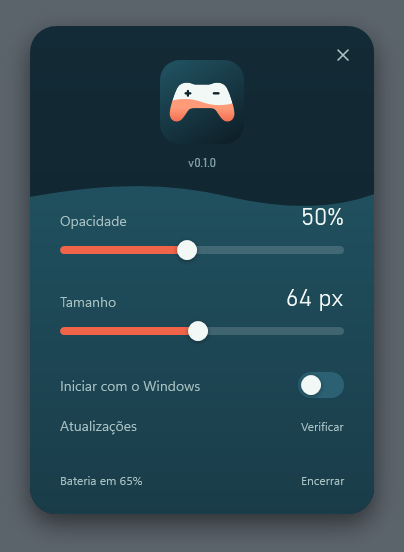
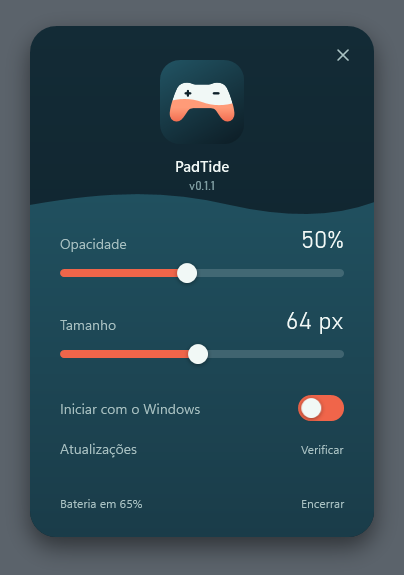
Fix widget double-click and drag, show app name in settings
DragMove's modal loop swallowed the second press, so the widget now drags
by hand. Also keeps the hollow area clickable at any opacity, stops
--snapshot from overwriting preferences and removes downloaded installers.

diff --git a/src/PadTide/Ui/SettingsWindow.xaml b/src/PadTide/Ui/SettingsWindow.xaml
@@ -29,7 +29,8 @@
 
             <StackPanel Grid.Row="0" HorizontalAlignment="Center" Margin="0,8,0,34">
                 <Image x:Name="BrandIcon" Width="84" Height="84" RenderOptions.BitmapScalingMode="HighQuality" AutomationProperties.Name="PadTide" />
-                <TextBlock x:Name="VersionText" Style="{StaticResource Text.Version}" HorizontalAlignment="Center" Margin="0,12,0,0" />
+                <TextBlock Style="{StaticResource Text.Title}" Text="PadTide" HorizontalAlignment="Center" Margin="0,12,0,0" />
+                <TextBlock x:Name="VersionText" Style="{StaticResource Text.Version}" HorizontalAlignment="Center" Margin="0,3,0,0" />
             </StackPanel>
 
             <StackPanel Grid.Row="1" Margin="0,0,0,18">

diff --git a/src/PadTide/Ui/WidgetWindow.cs b/src/PadTide/Ui/WidgetWindow.cs
@@ -15,6 +15,11 @@ namespace PadTide.Ui
         private const double EdgeMargin = 24;
         private readonly BadgeView _badge = new BadgeView();
         private double _opacity = 0.5;
+        private bool _pressed;
+        private bool _dragging;
+        private Point _pressCursor;
+        private double _pressLeft;
+        private double _pressTop;
 
         public WidgetWindow()
         {
@@ -30,6 +35,8 @@ namespace PadTide.Ui
             Content = _badge;
             SourceInitialized += (s, e) => NativeMethods.MakeNonActivatingToolWindow(new WindowInteropHelper(this).Handle);
             MouseLeftButtonDown += OnPress;
+            MouseMove += OnDrag;
+            MouseLeftButtonUp += OnRelease;
         }
 
         public event Action? SettingsRequested;
@@ -46,6 +53,7 @@ namespace PadTide.Ui
             Width = size;
             Height = size * Artwork.BadgeAspect;
             _opacity = opacityPercent / 100d;
+            _badge.WindowOpacity = _opacity;
             BeginAnimation(OpacityProperty, null);
             Opacity = _opacity;
         }
@@ -83,27 +91,52 @@ namespace PadTide.Ui
                 NativeMethods.SwpNoMove | NativeMethods.SwpNoSize | NativeMethods.SwpNoActivate);
         }
 
+        // DragMove's modal loop swallows the second press of a double-click, so the drag is done by hand.
         private void OnPress(object sender, MouseButtonEventArgs e)
         {
             if (e.ClickCount == 2)
             {
+                _pressed = false;
                 SettingsRequested?.Invoke();
                 return;
             }
-            try
-            {
-                DragMove();
-                Moved?.Invoke();
-            }
-            catch (InvalidOperationException)
-            {
-                // The button was already released.
-            }
+            _pressed = true;
+            _dragging = false;
+            _pressCursor = CursorPosition();
+            _pressLeft = Left;
+            _pressTop = Top;
+            CaptureMouse();
+        }
+
+        private void OnDrag(object sender, MouseEventArgs e)
+        {
+            if (!_pressed) return;
+            var offset = CursorPosition() - _pressCursor;
+            if (!_dragging && Math.Abs(offset.X) < SystemParameters.MinimumHorizontalDragDistance && Math.Abs(offset.Y) < SystemParameters.MinimumVerticalDragDistance) return;
+            _dragging = true;
+            Left = _pressLeft + offset.X;
+            Top = _pressTop + offset.Y;
+        }
+
+        private void OnRelease(object sender, MouseButtonEventArgs e)
+        {
+            if (!_pressed) return;
+            _pressed = false;
+            ReleaseMouseCapture();
+            if (_dragging) Moved?.Invoke();
+        }
+
+        private Point CursorPosition()
+        {
+            NativeMethods.GetCursorPos(out var cursor);
+            var fromDevice = PresentationSource.FromVisual(this)?.CompositionTarget?.TransformFromDevice ?? Matrix.Identity;
+            return fromDevice.Transform(new Point(cursor.X, cursor.Y));
         }
 
         private sealed class BadgeView : FrameworkElement
         {
             private int _percent;
+            private double _windowOpacity = 1;
 
             public int Percent
             {
@@ -116,7 +149,17 @@ namespace PadTide.Ui
                 }
             }
 
-            protected override void OnRender(DrawingContext dc) => Artwork.DrawBadge(dc, ActualWidth, _percent);
+            public double WindowOpacity
+            {
+                get => _windowOpacity;
+                set
+                {
+                    _windowOpacity = value;
+                    InvalidateVisual();
+                }
+            }
+
+            protected override void OnRender(DrawingContext dc) => Artwork.DrawBadge(dc, ActualWidth, _percent, _windowOpacity);
         }
     }
 }

diff --git a/src/PadTide/Ui/Artwork.cs b/src/PadTide/Ui/Artwork.cs
@@ -31,14 +31,16 @@ namespace PadTide.Ui
         private static readonly Typeface NumeralCondensed = new Typeface(new FontFamily("Bahnschrift"), FontStyles.Normal, FontWeights.SemiBold, FontStretches.Condensed);
 
         /// <summary>The widget: controller outline only, the percentage in the middle.</summary>
-        public static void DrawBadge(DrawingContext dc, double width, int percent)
+        public static void DrawBadge(DrawingContext dc, double width, int percent, double windowOpacity = 1)
         {
             var scale = width / ViewWidth;
             dc.PushTransform(new ScaleTransform(scale, scale));
             dc.PushTransform(new TranslateTransform(-ViewLeft, -ViewTop));
 
-            // A one-step alpha keeps the hollow middle clickable in a layered window.
-            dc.DrawGeometry(new SolidColorBrush(Color.FromArgb(1, 0, 0, 0)), null, Controller);
+            // Layered windows ignore clicks on pixels with zero alpha. Scaling by the window opacity keeps the
+            // hollow middle clickable at every setting while staying invisible.
+            var hitAlpha = (byte)Math.Min(255, Math.Ceiling(2 / Math.Max(0.01, windowOpacity)));
+            dc.DrawGeometry(new SolidColorBrush(Color.FromArgb(hitAlpha, 0, 0, 0)), null, Controller);
 
             var line = Brush(BatteryReport.IsLowLevel(percent) ? "Color.Signal" : "Color.Foam");
             var ink = Brush("Color.Foam");

diff --git a/src/PadTide/App.xaml.cs b/src/PadTide/App.xaml.cs
@@ -36,6 +36,7 @@ namespace PadTide
         private DispatcherTimer? _saveTimer;
         private bool _openSettingsIfOff;
         private bool _firstState = true;
+        private bool _persistSettings = true;
         private readonly Updater _updater = new Updater();
         private DispatcherTimer? _updateTimer;
         private UpdateNoticeWindow? _updateNotice;
@@ -59,6 +60,7 @@ namespace PadTide
             }
             if (e.Args.Length >= 2 && e.Args[0] == "--snapshot")
             {
+                _persistSettings = false;
                 Snapshot.Write(e.Args[1]);
                 Shutdown();
                 return;
@@ -286,6 +288,7 @@ namespace PadTide
         private void SaveSettings()
         {
             _saveTimer?.Stop();
+            if (!_persistSettings) return;
             try
             {
                 Settings.Save(_settingsPath);

diff --git a/src/PadTide/Shell/Updater.cs b/src/PadTide/Shell/Updater.cs
@@ -32,6 +32,8 @@ namespace PadTide.Shell
         {
             var directory = Path.Combine(Path.GetTempPath(), "PadTide", "updates");
             Directory.CreateDirectory(directory);
+            // The installer of a previous update cannot delete itself; this is the next chance to do it.
+            foreach (var leftover in Directory.GetFiles(directory, UpdateManifest.InstallerAssetPrefix + "*.exe")) TryDelete(leftover);
             var destination = Path.Combine(directory, UpdateManifest.InstallerAssetPrefix + offer.Version + "-" + Guid.NewGuid().ToString("N") + ".exe");
             try
             {

diff --git a/ERRORS.md b/ERRORS.md
@@ -9,6 +9,20 @@ Consultar este arquivo antes de investigar um problema relacionado.
 - **Solução:** tratar a falta de resposta como "sem leitura". Ocultar o widget após 2 falhas seguidas e nunca mostrar um valor antigo como atual.
 - **Prevenção:** o `PID_1098` sozinho não garante leitura. Um percentual só aparece depois de uma resposta válida.
 
+## Duplo clique no widget não abria as configurações (0.1.0)
+
+- **Sintoma:** com cliques reais do mouse, o duplo clique não fazia nada. O arraste funcionava, mas deslocava o widget mais do que o mouse (23 px a mais na vertical em um movimento de 40 px).
+- **Causa:** `DragMove` entra no loop modal do sistema já no primeiro clique e consome o segundo, então `ClickCount` nunca chegava a 2.
+- **Solução:** arraste próprio com `CaptureMouse`, que só começa depois da distância mínima de arraste do sistema.
+- **Prevenção:** testar interações de mouse com cliques reais. Automação de interface e imagens geradas não passam por esse caminho.
+
+## `--snapshot` apagava as preferências do usuário (0.1.1)
+
+- **Sintoma:** tamanho e opacidade escolhidos voltavam a 64 e 50% depois de gerar imagens.
+- **Causa:** o modo `--snapshot` não carrega as preferências, mas os sliders da tela de configurações disparavam o salvamento dos valores padrão.
+- **Solução:** o modo `--snapshot` nunca grava preferências.
+- **Prevenção:** ferramentas de diagnóstico não devem tocar nos dados do usuário.
+
 ## Barras e botões com formato de lente
 
 - **Sintoma:** os trilhos dos sliders saíam com as pontas afinadas, como uma lente.

diff --git a/CHANGELOG.md b/CHANGELOG.md
@@ -2,6 +2,14 @@
 
 Todas as mudanças relevantes do PadTide ficam registradas aqui, no formato [Keep a Changelog](https://keepachangelog.com/pt-BR/1.1.0/) e com [versionamento semântico](https://semver.org/lang/pt-BR/).
 
+## [0.1.1] - 2026-11-06
+
+### Corrigido
+
+- O duplo clique no widget agora abre as configurações.
+- Arrastar o widget agora acompanha o mouse com precisão.
+- O instalador baixado em uma atualização não fica mais sobrando na pasta temporária.
+
 ## [0.1.0] - 2026-11-06
 
 ### Adicionado
